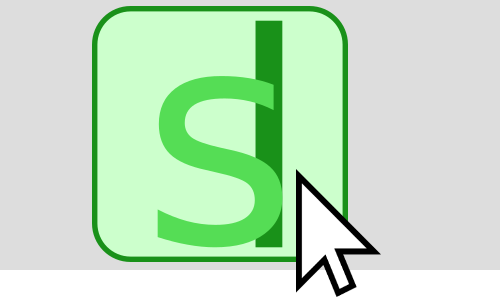
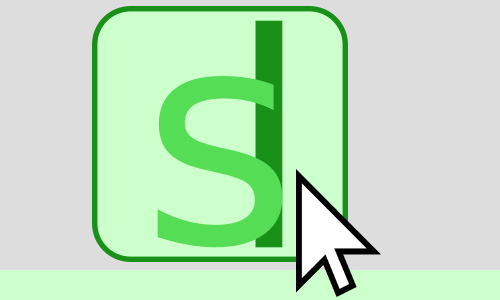
Nice steps, bro.

Changed region(s): [[0.0, 0.9, 1.0, 1.0]]

diff --git a/website/src/assets/style.css b/website/src/assets/style.css
@@ -30,6 +30,7 @@ p:last-child {
 .hero {
   position: relative;
   height: 100vh;
+  min-height: 500px;
 }
 
 .hero-inner {
@@ -62,6 +63,11 @@ p:last-child {
 .widebox {
   position: relative;
   width: 100%;
+  margin: 1rem 0;
+}
+
+.widebox:last-child {
+  margin: 0;
 }
 
 .widebox:after {
@@ -73,6 +79,7 @@ p:last-child {
 .widebox-half {
   float: left;
   display: block;
-  margin: 0.5%;
-  width: 49%;
+  width: 50%;
+  padding: 1rem;
+  background: #a8ffa8;
 }
